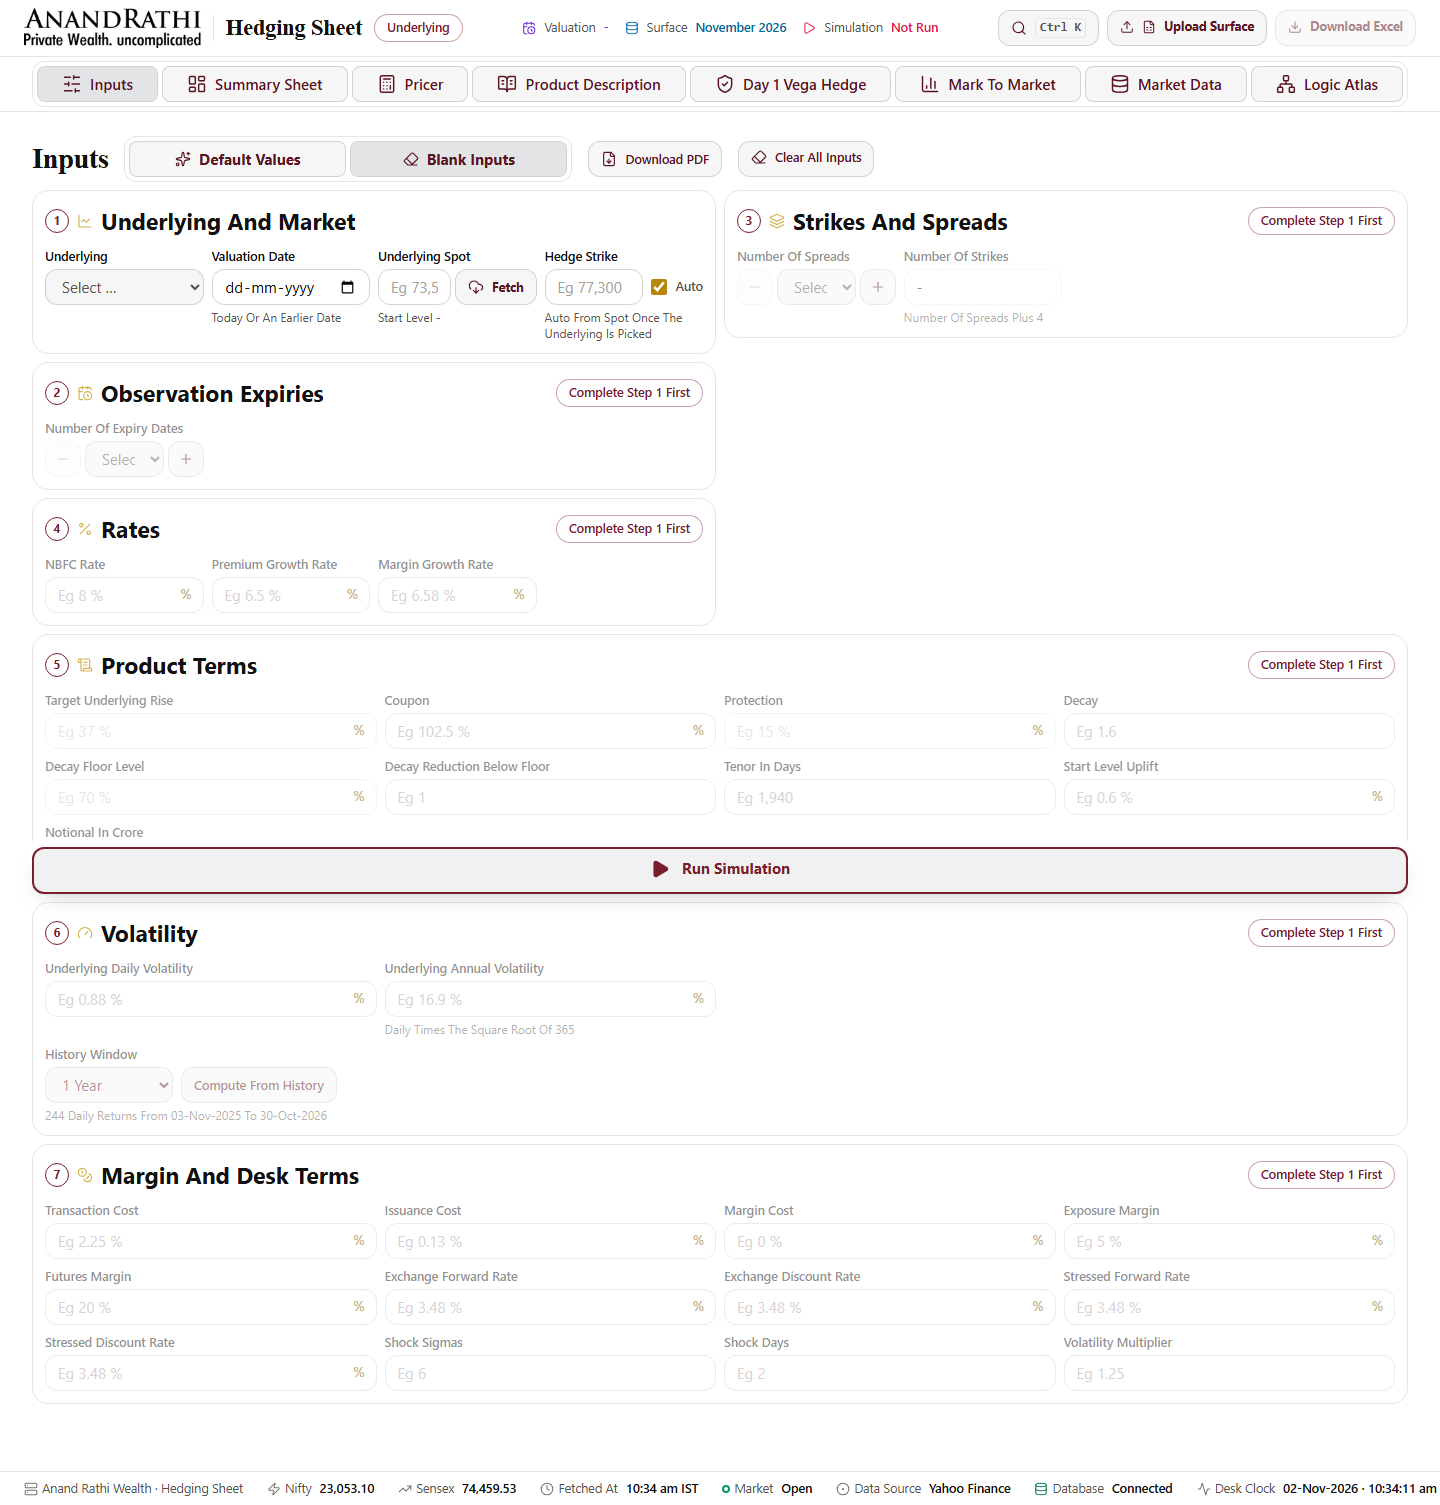
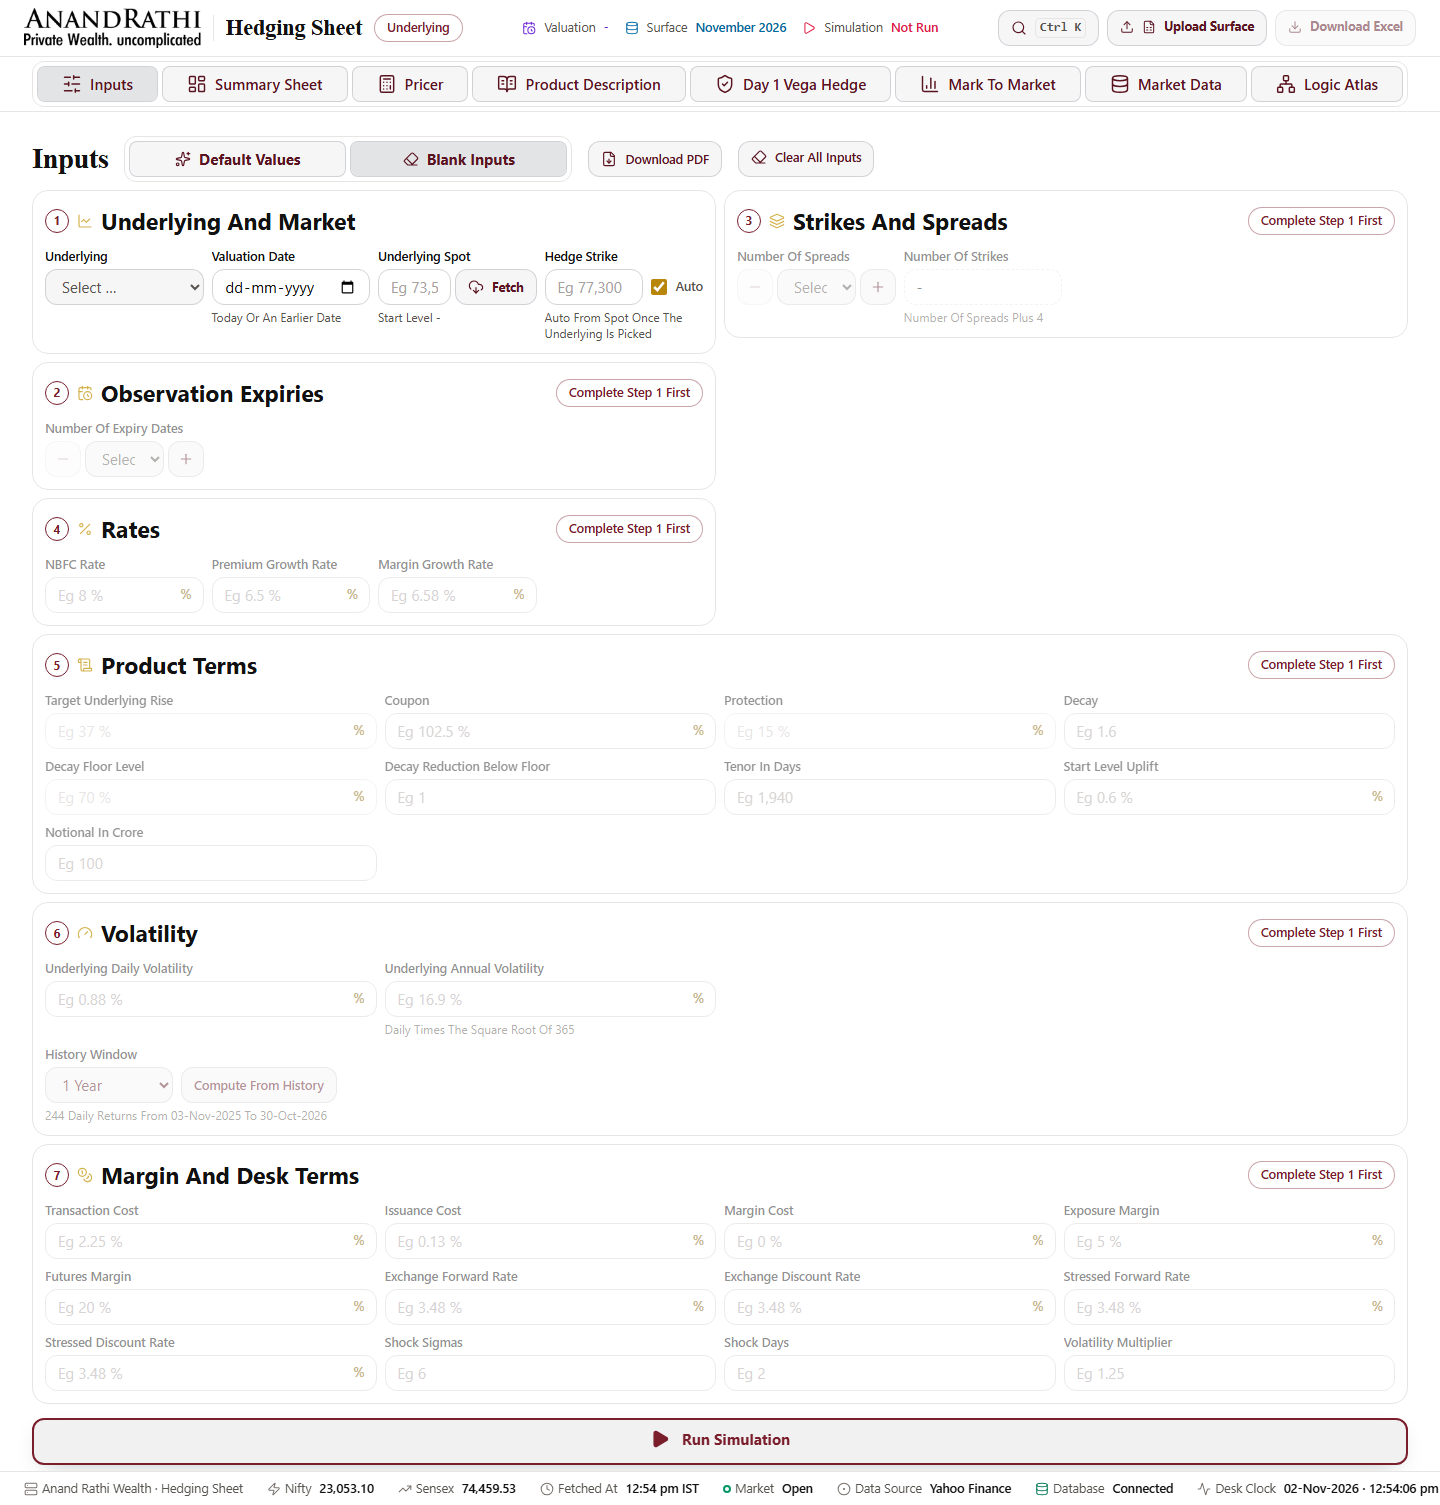
Final Round Docs And Screenshots: Inputs Layout, Dates, Grouping And Status Chips; Before And After In Both Modes

Changed region(s): [[0.0312, 0.9369, 1.0, 0.9993], [0.4375, 0.5621, 0.5625, 0.5934], [0.0312, 0.5621, 0.0625, 0.5934]]

diff --git a/docs/06-routes-and-ui.md b/docs/06-routes-and-ui.md
@@ -12,7 +12,7 @@
 
 - **Type and spacing.** One scale in `app/globals.css` and `tailwind.config.ts`. Font sizes grow smoothly from 320 px to 2560 px: Display 28 to 44 px, H1 24 to 34, H2 20 to 26, H3 17 to 21, Body 14 to 16, Table 13 to 15, Table Head 12 to 14 and Caption 12 to 13. Spacing uses 4, 8, 12, 16, 24, 32, 48 and 64 px; sections pad 16 px on phones, 24 on tablets and 32 on desktops. Icons are 14, 16, 20, 24 or 32 px with a 1.75 stroke; tab icons are 16 px on phones, 20 px from 768 px, 16 px from 1024 to 1359 px, and 20 px again from 1360 px.
 - **Header.** Sticks to the top from 640 px wide and 500 px tall; on smaller screens it scrolls away so the form keeps its room.
-- **Inputs.** Fields sit in one column on phones, two from 640 px, three from 1280 px and four from 1920 px, with the label above the box and the hint below it. The Run Simulation bar stays pinned to the bottom edge and clears the phone home indicator.
+- **Inputs.** Each group spans the full width. Fields sit in one column on phones, two from 640 px, four from 1024 px and six from 1280 px, with the label above the box and the helper text behind an icon before the label. The Run Simulation bar stays pinned to the bottom edge and clears the phone home indicator.
 - **Tables.** The Primary SP Dashboard DataTable: 11 px bold upper case headers with 14 by 20 px padding, 14 px cells with 12 by 20 px padding, numbers right aligned with tabular figures, nothing wraps. Only the header row is sticky; no column is pinned. A table wider than the screen scrolls inside its own box, at most min(72 dvh, 780 px) tall, with shadows at the edges, so the page never scrolls sideways.
 - **Controls.** Buttons, nav pills, tabs, the mode switch, selects, steppers, segmented controls and chips are gold glass: a translucent fill, a gold border and a backdrop blur, with hover, pressed, focus and disabled states. Run Simulation is a stronger maroon to gold glass.
 - **Popups.** Full-height sheets from the bottom on phones, centred dialogs from 640 px; the content scrolls inside.
@@ -34,19 +34,24 @@
 
 ## Inputs
 
-Inputs holds inputs only, in seven numbered groups in fill order: 1 Underlying And Market, 2 Observation Expiries, 3 Strikes And Spreads, 4 Rates, 5 Product Terms, 6 Volatility and 7 Margin And Desk Terms. Fields sit 4 across at 1440 px, 3 at 1024, 2 at 768 and 1 on phones, 36 px tall with one-line labels and 12 px helper text. A group stays locked, with "Complete Step N First", until every field of the steps before it is filled: step 2 opens after the Underlying and Valuation Date, step 3 after the expiries, steps 4 to 7 after the strikes and spreads.
+Inputs holds inputs only, in seven numbered groups in fill order: 1 Underlying And Market, 2 Observation Expiries, 3 Strikes And Spreads, 4 Rates, 5 Product Terms, 6 Volatility and 7 Margin And Desk Terms. Every group is one full-width card, stacked. Fields stretch to fill each row, the last row too, so nothing is left vacant on the right: 6 across from 1280 px, 4 at 1024, 2 at 768 and 1 on phones, 36 px tall with one-line labels and helper text behind an icon. Rates, Product Terms and Volatility each fit one row at 1440 px. The header is one line: step, title, a short rule as a muted chip, then the actions and the card's one status chip at the top right. A group stays locked until every field of the steps before it is filled, collapsed to a slim header reading "Complete Step N First": step 2 opens after the Underlying and Valuation Date, step 3 after the expiries, steps 4 to 7 after the strikes and spreads.
 
-- **Counts.** Number Of Expiry Dates (1 to 10) and Number Of Spreads (1 to 6) are dropdowns with a stepper either side. In Blank Inputs they show "Select …" and nothing appears below until a count is picked. The spread count sets the strikes, n + 4, shown read-only, and each strike row shows its units read-only.
-- **Expiries.** Each is a date. A typed date moves to the last expiry weekday of its month, Thursday for Sensex and Tuesday for Nifty, with a note such as "Moved To The Last Thursday, 25-Apr-2030". The median expiry is labelled Observation And Hedge Option Expiry. Quarterly From First Expiry fills the rest three months apart.
+- **Underlying And Market.** Underlying, Valuation Date, Spot and Hedge Strike share one row with Start Level and Fetched At as read-only tiles.
+- **Counts.** Number Of Expiry Dates (1 to 10) and Number Of Spreads (1 to 6) are dropdowns with a stepper either side. In Blank Inputs they show "Select …" with one slim row saying what to pick. The spread count sets the strikes, n + 4, shown read-only, and each strike row shows its units read-only.
+- **Strikes And Spreads.** Two full-width tables of single-line rows about 40 px tall. Option Type and Buy Or Sell are each one segmented toggle. Below 700 px a table scrolls sideways inside its own box. The Calculated or Edited chip sits once, in the Participation Rate heading.
+- **Dates.** Every date reads 31-Oct-2026. A date field takes that form, 2026-10-31 or 31-10-2026 from the keyboard, or a pick from its calendar button, and commits on leaving the field. Text that is no date goes back to the last value with a popup.
+- **Numbers.** One grouping style everywhere, on screen, in the PDF and in Excel: 102,202 and 74,151.04, applied once a field loses focus. Percent fields read 8.000 with the % inside the field, and numbers line up on the right.
+- **Expiries.** A grid of compact cards, 5 across at 1440 px, each with a date and a role chip, the selector first and Hedge Option Expiry last. A typed date moves to the last expiry weekday of its month, Thursday for Sensex and Tuesday for Nifty, with a note such as "Moved To The Last Thursday, 25-Apr-2030". The median expiry is labelled Observation And Hedge Option Expiry. Quarterly From First Expiry fills the rest three months apart.
 - **Bulk Edit.** Expiries and strikes each take a pasted block from a sheet, tab or comma separated, with a live preview that checks every row. More than 10 rows are refused, and Apply stays off until every row passes.
 - **Field checks.** Every rule lives in `lib/validation/inputRules.ts`. A typed value that breaks its rule is never applied; leaving the field opens a popup with the allowed range and puts the last valid value back. Run Simulation checks everything again and lists each problem, by group, as a link to its field.
-- **Volatility.** Daily and Annual carry one tag, Calculated or Edited, and Compute From History sets both back to Calculated.
-- **Run bar.** A slim sticky bar at the bottom holds Run Simulation and, after a change, "Inputs Changed · Run Again".
+- **Volatility.** Daily, Annual, History Window and Compute From History share one row. One chip at the top right of the card reads Calculated or Edited, and Compute From History sets it back to Calculated. One muted line under the row gives the rule and the returns used.
+- **Status chips.** One per card: Hedge Strike at the top right of Underlying And Market, Volatility at the top right of its card, Participation Rate in its table heading.
+- **Run bar.** A slim sticky bar from edge to edge of the window, resting on the footer, holds Run Simulation and, on the right, the status chip: Not Run, Running, Up To Date or "Inputs Changed · Run Again".
 
 A pill at the top switches between two modes, after a confirm popup that also clears the results:
 
 - **Default Values.** The live spot, today's date in India, the calculated volatility and the desk terms. Reset To Defaults restores them.
-- **Blank Inputs.** Every field is empty with an "Eg …" placeholder and the selects read "Select …". Choose the number of expiry dates first, then that many month rows appear. Computed dates show "-" until they can be worked out, and derived fields fill as the inputs arrive and stay editable. Fetch Live Spot and Compute Volatility fill only their own fields. Clear All Inputs empties every field again.
+- **Blank Inputs.** The same layout. Every field is empty with an "Eg …" placeholder, or "-" in the strike and spread tables, and the selects read "Select …". Choose the number of expiry dates first, then that many date cards appear. Computed dates show "-" until they can be worked out, and derived fields fill as the inputs arrive and stay editable. Fetch Live Spot and Compute Volatility fill only their own fields. Clear All Inputs empties every field again.
 
 Run Simulation validates first. Missing or invalid fields open "Missing Or Invalid Inputs", grouped by section, with Go To Field; closing the popup focuses the first invalid field, and each invalid field has a red ring and inline text. A typed value that breaks a rule across fields opens "Please Fix This Input" straight away, or "Coupon Not Reachable" when the spreads cannot pay the Coupon.
 

diff --git a/docs/08-changelog.md b/docs/08-changelog.md
@@ -1,5 +1,19 @@
 # 08 · Changelog
 
+## Final Round: Inputs Layout Rework, Single Calculated Tag, Output Tabs Kept As Before
+
+| Area | Change |
+|---|---|
+| Inputs | Every group is one full-width card, stacked in fill order. Fields stretch to fill every row, the last row too. Rates, Product Terms and Volatility each fit one row at 1440 px. Headers are one line. This replaces the two column layout and the 4, 3, 2, 1 grid of Round 11 |
+| Expiries | A grid of compact cards with a role chip, the selector first and Hedge Option Expiry last |
+| Strikes And Spreads | Two full-width tables with one segmented toggle per choice and rows of about 40 px; below 700 px they scroll inside their own box. "-" placeholders in Blank Inputs, and one slim row until a count is picked |
+| Dates | Every date field reads 31-Oct-2026, with a calendar button and keyboard entry in the desk or numeric forms. The native date field could not show that format |
+| Status Chips | One per card. This supersedes the Round 11 tag on both Daily and Annual Volatility |
+| Grouping | One international style, 102,202 and 74,151.04, on screen, in the PDF and in Excel, where Round 11 mixed Indian and international grouping. Fields group once they lose focus |
+| Blank Inputs | Locked groups collapse to a slim header until they open |
+| Run Bar | Edge to edge, resting on the footer, with the status chip on the right |
+| Market Data | The surface buttons are back on their own row under the heading text, undoing the Round 11 compaction. Every other output tab kept its structure |
+
 ## Round 12: Logic Atlas Rebuild, Edge Cases And Full Automation Testing
 
 | Area | Change |
